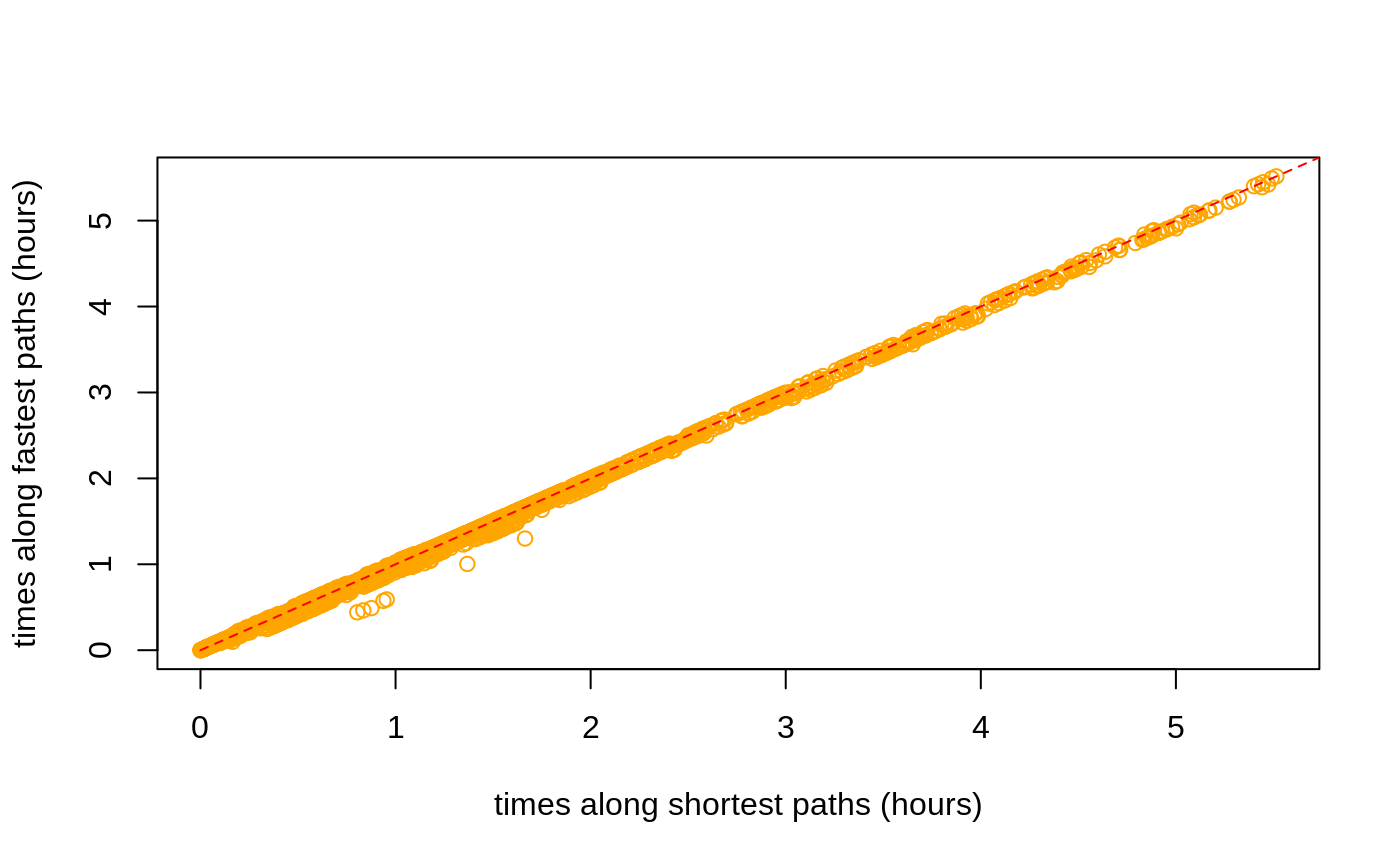
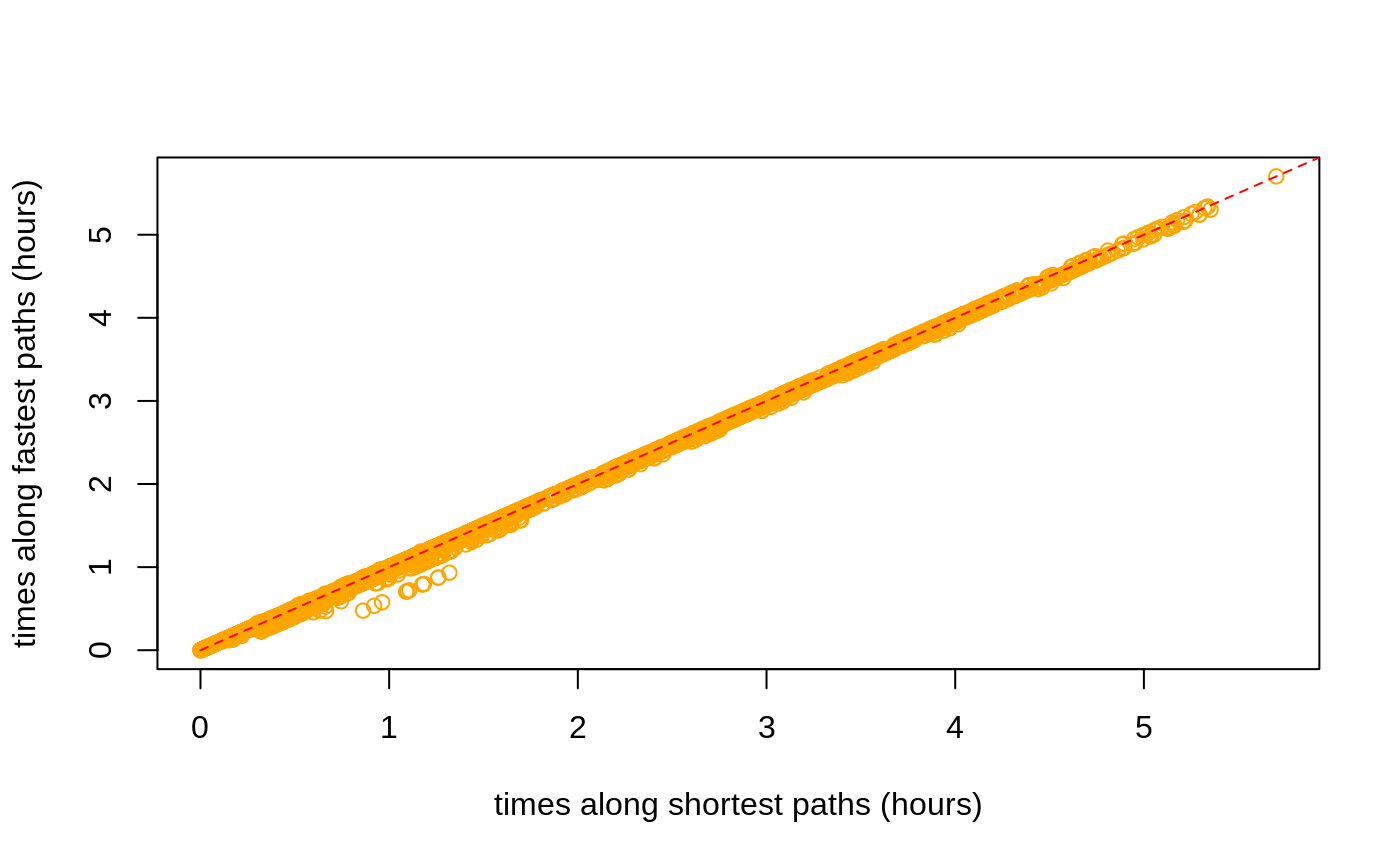
Built site for dodgr: 0.2.3@1b68def

diff --git a/articles/dodgr.html b/articles/dodgr.html
@@ -347,7 +347,7 @@ Figure 2: A <strong>dual</strong>-weighted, directed graph in which the weights 
 <p>The <code>dodgr</code> packages includes a function to select a random connected portion of graph including a specified number of vertices. This function is used in the <a href="https://atfutures.github.io/dodgr/reference/compare_heaps.html"><code><a href="../reference/compare_heaps.html">compare_heaps()</a></code></a> function described below, but is also useful for general statistical analyses of large graphs which may otherwise take too long to compute.</p>
 <div class="sourceCode" id="cb59"><pre class="sourceCode r"><code class="sourceCode r"><a class="sourceLine" id="cb59-1" data-line-number="1">graph_sub &lt;-<span class="st"> </span><span class="kw"><a href="../reference/dodgr_sample.html">dodgr_sample</a></span> (graph, <span class="dt">nverts =</span> <span class="dv">100</span>)</a>
 <a class="sourceLine" id="cb59-2" data-line-number="2"><span class="kw"><a href="https://rdrr.io/r/base/nrow.html">nrow</a></span> (graph_sub)</a></code></pre></div>
-<pre><code>## [1] 207</code></pre>
+<pre><code>## [1] 205</code></pre>
 <p>The random sample has around twice as many edges as vertices, in accordance with the statistics calculated above.</p>
 <div class="sourceCode" id="cb61"><pre class="sourceCode r"><code class="sourceCode r"><a class="sourceLine" id="cb61-1" data-line-number="1"><span class="kw"><a href="https://rdrr.io/r/base/nrow.html">nrow</a></span> (<span class="kw"><a href="../reference/dodgr_vertices.html">dodgr_vertices</a></span> (graph_sub))</a></code></pre></div>
 <pre><code>## [1] 100</code></pre>
@@ -426,30 +426,30 @@ Figure 2: A <strong>dual</strong>-weighted, directed graph in which the weights 
 <pre><code>## Loading required namespace: rbenchmark</code></pre>
 <pre><code>##                                                                                   test
 ## 6       d &lt;- dodgr_dists(graph_contracted, from = from_id, to = to_id, heap = "BHeap")
-## 10     d &lt;- dodgr_dists(graph_contracted, from = from_id, to = to_id, heap = "Heap23")
 ## 11        d &lt;- dodgr_dists(graph_contracted, from = from_id, to = to_id, heap = "set")
 ## 7       d &lt;- dodgr_dists(graph_contracted, from = from_id, to = to_id, heap = "FHeap")
+## 10     d &lt;- dodgr_dists(graph_contracted, from = from_id, to = to_id, heap = "Heap23")
 ## 8     d &lt;- dodgr_dists(graph_contracted, from = from_id, to = to_id, heap = "TriHeap")
 ## 9  d &lt;- dodgr_dists(graph_contracted, from = from_id, to = to_id, heap = "TriHeapExt")
 ## 1                  d &lt;- dodgr_dists(graph, from = from_id, to = to_id, heap = "BHeap")
-## 12                  d &lt;- igraph::distances(igr, v = from_id, to = to_id, mode = "out")
 ## 2                  d &lt;- dodgr_dists(graph, from = from_id, to = to_id, heap = "FHeap")
+## 12                  d &lt;- igraph::distances(igr, v = from_id, to = to_id, mode = "out")
 ## 5                 d &lt;- dodgr_dists(graph, from = from_id, to = to_id, heap = "Heap23")
 ## 3                d &lt;- dodgr_dists(graph, from = from_id, to = to_id, heap = "TriHeap")
 ## 4             d &lt;- dodgr_dists(graph, from = from_id, to = to_id, heap = "TriHeapExt")
 ##    replications elapsed relative user.self sys.self user.child sys.child
-## 6             1   0.003    1.000     0.004        0          0         0
-## 10            1   0.004    1.333     0.007        0          0         0
-## 11            1   0.004    1.333     0.004        0          0         0
-## 7             1   0.005    1.667     0.006        0          0         0
-## 8             1   0.005    1.667     0.007        0          0         0
-## 9             1   0.005    1.667     0.005        0          0         0
-## 1             1   0.014    4.667     0.020        0          0         0
-## 12            1   0.018    6.000     0.017        0          0         0
-## 2             1   0.019    6.333     0.032        0          0         0
-## 5             1   0.021    7.000     0.036        0          0         0
-## 3             1   0.022    7.333     0.038        0          0         0
-## 4             1   0.025    8.333     0.025        0          0         0</code></pre>
+## 6             1   0.004     1.00     0.006    0.000          0         0
+## 11            1   0.004     1.00     0.006    0.000          0         0
+## 7             1   0.005     1.25     0.008    0.000          0         0
+## 10            1   0.005     1.25     0.009    0.000          0         0
+## 8             1   0.007     1.75     0.009    0.001          0         0
+## 9             1   0.007     1.75     0.006    0.000          0         0
+## 1             1   0.014     3.50     0.021    0.000          0         0
+## 2             1   0.021     5.25     0.037    0.000          0         0
+## 12            1   0.021     5.25     0.021    0.000          0         0
+## 5             1   0.024     6.00     0.042    0.000          0         0
+## 3             1   0.025     6.25     0.044    0.000          0         0
+## 4             1   0.028     7.00     0.028    0.000          0         0</code></pre>
 <p>The key column of that <code>data.frame</code> is <code>relative</code>, which quantifies the relative performance of each test in relation to the best which is given a score of 1. <code>dodgr</code> using the default <code>heap = "BHeap"</code>, which is a binary heap priority queue, performs faster than <a href="https://igraph.org"><code>igraph</code></a> <span class="citation">(Csardi and Nepusz 2006)</span> for these graphs. Different kind of graphs will perform differently with different priority queue structures, and this function enables users to empirically discern the optimal heap for their kind of graph.</p>
 <p>Note, however, that this is not an entirely fair comparison, because <code>dodgr</code> calculates dual-weighted distances, whereas <a href="https://igraph.org"><code>igraph</code></a>—and indeed all other <strong>R</strong> packages—only directly calculate distances based on a single set of weights. Implementing dual-weighted routing in these cases requires explicitly re-tracing all paths and summing the second set of weights along each path. A time comparison in that case would be very strongly in favour of <code>dodgr</code>. Moreover, <code>dodgr</code> can convert graphs to contracted form through removing redundant vertices, as detailed in the following section. Doing so greatly improves performance with respect to <a href="https://igraph.org"><code>igraph</code></a>.</p>
 <p>For those wishing to do explicit comparisons themselves, the following code generates the <a href="https://igraph.org"><code>igraph</code></a> equivalent of <a href="https://atfutures.github.io/dodgr/reference/dodgr_distances.html"><code><a href="../reference/dodgr_distances.html">dodgr_distances()</a></code></a>, although of course for single-weighted graphs only:</p>
@@ -484,11 +484,11 @@ Figure 3: <strong>(A)</strong> Vertex#2 is redundant for routing calculations fr
 <a class="sourceLine" id="cb86-5" data-line-number="5">                       d2 &lt;-<span class="st"> </span><span class="kw"><a href="../reference/dodgr_dists.html">dodgr_dists</a></span> (graph, <span class="dt">from =</span> from, <span class="dt">to =</span> to),</a>
 <a class="sourceLine" id="cb86-6" data-line-number="6">                       <span class="dt">replications =</span> <span class="dv">2</span>)</a></code></pre></div>
 <pre><code>##                                             test replications elapsed
-## 2 d2 &lt;- dodgr_dists(graph, from = from, to = to)            2   0.046
-## 1   d2 &lt;- dodgr_dists(grc, from = from, to = to)            2   0.009
+## 2 d2 &lt;- dodgr_dists(graph, from = from, to = to)            2   0.042
+## 1   d2 &lt;- dodgr_dists(grc, from = from, to = to)            2   0.008
 ##   relative user.self sys.self user.child sys.child
-## 2    5.111     0.066        0          0         0
-## 1    1.000     0.012        0          0         0</code></pre>
+## 2     5.25     0.060        0          0         0
+## 1     1.00     0.011        0          0         0</code></pre>
 <p>And contracting the graph has a similar effect of speeding up pairwise routing between these 100 points. All routing algorithms scale non-linearly with size, and relative improvements in efficiency will be even greater for larger graphs.</p>
 <div id="routing-on-contracted-graphs" class="section level2">
 <h2 class="hasAnchor">
@@ -500,11 +500,11 @@ Figure 3: <strong>(A)</strong> Vertex#2 is redundant for routing calculations fr
 <pre><code>## [1] 672</code></pre>
 <div class="sourceCode" id="cb90"><pre class="sourceCode r"><code class="sourceCode r"><a class="sourceLine" id="cb90-1" data-line-number="1">verts &lt;-<span class="st"> </span><span class="kw"><a href="https://rdrr.io/r/base/sample.html">sample</a></span> (<span class="kw"><a href="../reference/dodgr_vertices.html">dodgr_vertices</a></span> (graph)<span class="op">$</span>id, <span class="dt">size =</span> <span class="dv">100</span>)</a>
 <a class="sourceLine" id="cb90-2" data-line-number="2"><span class="kw"><a href="https://rdrr.io/r/utils/head.html">head</a></span> (verts) <span class="co"># a character vector</span></a></code></pre></div>
-<pre><code>## [1] "571423442"  "1204772663" "3697937604" "3697942889" "3921523006"
-## [6] "1148814809"</code></pre>
+<pre><code>## [1] "1427594112" "2608081955" "977490073"  "1376768433" "1691496070"
+## [6] "3697937611"</code></pre>
 <div class="sourceCode" id="cb92"><pre class="sourceCode r"><code class="sourceCode r"><a class="sourceLine" id="cb92-1" data-line-number="1">grc &lt;-<span class="st"> </span><span class="kw"><a href="../reference/dodgr_contract_graph.html">dodgr_contract_graph</a></span> (graph, verts)</a>
 <a class="sourceLine" id="cb92-2" data-line-number="2"><span class="kw"><a href="https://rdrr.io/r/base/nrow.html">nrow</a></span> (grc)</a></code></pre></div>
-<pre><code>## [1] 860</code></pre>
+<pre><code>## [1] 858</code></pre>
 <p>Retaining the nominated vertices yields a graph with considerably more edges than the fully contracted graph excluding these vertices. The <a href="https://atfutures.github.io/dodgr/reference/dodgr_distances.html"><code><a href="../reference/dodgr_distances.html">dodgr_distances()</a></code></a> function can be applied to the latter graph to obtain accurate distances precisely routed between these points, yet using the speed advantages of graph contraction.</p>
 </div>
 </div>
@@ -545,42 +545,25 @@ Figure 3: <strong>(A)</strong> Vertex#2 is redundant for routing calculations fr
 <pre><code>## [1] 10</code></pre>
 <p>The result (<code>dp</code>) is a list of 10 items, each of which contains 5 vectors. An example is,</p>
 <div class="sourceCode" id="cb99"><pre class="sourceCode r"><code class="sourceCode r"><a class="sourceLine" id="cb99-1" data-line-number="1">dp [[<span class="dv">1</span>]] [[<span class="dv">1</span>]]</a></code></pre></div>
-<pre><code>##   [1] "3921523906" "1204772726" "1204772914" "1388483784" "1388482296"
-##   [6] "1388483001" "1204772748" "1204772807" "1204772888" "1388483168"
-##  [11] "1204772860" "1204772663" "1388482943" "1388482235" "977472736" 
-##  [16] "977472640"  "1388483756" "1388483120" "977472872"  "977472830" 
-##  [21] "977473072"  "977472969"  "1388483451" "977473047"  "6410121123"
-##  [26] "2627480728" "4552228189" "977472811"  "977472776"  "5351394447"
-##  [31] "977473010"  "977472907"  "977473143"  "1143452509" "5351394448"
-##  [36] "1143452137" "1143452244" "5351394641" "1143452423" "1143452067"
-##  [41] "5351394642" "1143452181" "1143452303" "1143452492" "1143452094"
-##  [46] "5351394644" "5351394643" "1143452226" "1143452348" "2718034071"
-##  [51] "1143452546" "1143452128" "1143452281" "1143452400" "1143452081"
-##  [56] "1143452160" "1143452325" "5351394645" "1143452459" "5351394646"
-##  [61] "2627430641" "5351394647" "1143452205" "5351394648" "1143452283"
-##  [66] "1143452404" "2627428625" "1143452165" "1143452327" "1143452463"
-##  [71] "1143452113" "1143452207" "1143452383" "1143452534" "1143452145"
-##  [76] "2627440420" "2627440424" "1143452232" "1143452410" "1143452262"
-##  [81] "1143452379" "1143452183" "1143452174" "1143452087" "1143452415"
-##  [86] "1143452293" "1143452135" "1143452063" "1143452360" "1143452234"
-##  [91] "1143452099" "1143452506" "3697940688" "3697940693" "571423793" 
-##  [96] "1143452264" "571423799"  "1143452116" "1143452536" "571423809" 
-## [101] "571423815"  "571423818"  "1143452332" "571423819"  "2627444770"
-## [106] "1143452467" "571423820"  "571423821"  "571423823"  "571423824" 
-## [111] "2627444771" "2627444772" "2627444773" "571423157"  "571423164" 
-## [116] "571423169"  "3921514718" "2627444775" "571423170"  "2627444774"
-## [121] "977490136"  "571423179"  "5366412458"</code></pre>
+<pre><code>##  [1] "3818705557" "3818704556" "3818704555" "3818704554" "3818704553"
+##  [6] "1715830667" "977472658"  "5351394459" "1143452537" "2588155736"
+## [11] "1143452117" "980469030"  "2195424912" "1143452269" "1143452386"
+## [16] "1143452076" "1143452151" "977473079"  "977472845"  "2627422270"
+## [21] "2195424913" "1143452198" "1143452373" "977472612"  "1143452526"
+## [26] "977472712"  "2608076560" "1143452257" "1143452142" "1143452434"
+## [31] "3697942891" "2627428639" "2627428626" "2627428649" "2627428650"
+## [36] "2627428648"</code></pre>
 <p>For spatial graphs, the coordinates of these paths can be obtained by extracting the vertices with <code><a href="../reference/dodgr_vertices.html">dodgr_vertices()</a></code> and matching the vertex IDs:</p>
 <div class="sourceCode" id="cb101"><pre class="sourceCode r"><code class="sourceCode r"><a class="sourceLine" id="cb101-1" data-line-number="1">verts &lt;-<span class="st"> </span><span class="kw"><a href="../reference/dodgr_vertices.html">dodgr_vertices</a></span> (graph)</a>
 <a class="sourceLine" id="cb101-2" data-line-number="2">path1 &lt;-<span class="st"> </span>verts [<span class="kw"><a href="https://rdrr.io/r/base/match.html">match</a></span> (dp [[<span class="dv">1</span>]] [[<span class="dv">1</span>]], verts<span class="op">$</span>id), ]</a>
 <a class="sourceLine" id="cb101-3" data-line-number="3"><span class="kw"><a href="https://rdrr.io/r/utils/head.html">head</a></span> (path1)</a></code></pre></div>
 <pre><code>##              id        x        y component    n
-## 5140 3921523906 76.44344 15.34444         2 2539
-## 1534 1204772726 76.44340 15.34466         2  779
-## 1536 1204772914 76.44401 15.34403         2  780
-## 1538 1388483784 76.44425 15.34391         2  781
-## 1540 1388482296 76.44451 15.34383         2  782
-## 1542 1388483001 76.44470 15.34382         2  783</code></pre>
+## 4878 3818705557 76.45315 15.34103         2 2420
+## 4876 3818704556 76.45322 15.34104         2 2419
+## 4874 3818704555 76.45329 15.34088         2 2418
+## 4872 3818704554 76.45353 15.34091         2 2417
+## 4870 3818704553 76.45373 15.34105         2 2416
+## 1792 1715830667 76.45379 15.34111         2  908</code></pre>
 <p>Paths calculated on contracted graphs will of course have fewer vertices than those calculated on full graphs.</p>
 </div>
 <div id="aggregated-flows" class="section level1">
@@ -614,17 +597,17 @@ Figure 3: <strong>(A)</strong> Vertex#2 is redundant for routing calculations fr
 ## 4 15.34173   8.888670    9.87630 unclassified 28565950         1  2.133281
 ## 5 15.34179   9.326536   10.36282 unclassified 28565950         1  2.238369
 ## 6 15.34174   9.326536   10.36282 unclassified 28565950         1  2.238369
-##   time_weighted     flow
-## 1     35.317912 23.28219
-## 2     35.317912  0.00000
-## 3      2.370312 23.28219
-## 4      2.370312  0.00000
-## 5      2.487076 23.28219
-## 6      2.487076  0.00000</code></pre>
+##   time_weighted flow
+## 1     35.317912    0
+## 2     35.317912    0
+## 3      2.370312    0
+## 4      2.370312    0
+## 5      2.487076    0
+## 6      2.487076    0</code></pre>
 <p>Most flows are zero because they have only been calculated between very few points in the graph.</p>
 <div class="sourceCode" id="cb106"><pre class="sourceCode r"><code class="sourceCode r"><a class="sourceLine" id="cb106-1" data-line-number="1"><span class="kw"><a href="https://rdrr.io/r/base/summary.html">summary</a></span> (graph_f<span class="op">$</span>flow)</a></code></pre></div>
 <pre><code>##    Min. 1st Qu.  Median    Mean 3rd Qu.    Max. 
-##   0.000   0.000   0.000   3.893   0.000  46.718</code></pre>
+##  0.0000  0.0000  0.0000  5.4879  0.5902 61.9130</code></pre>
 </div>
 <div id="flow-dispersal" class="section level2">
 <h2 class="hasAnchor">
@@ -634,7 +617,7 @@ Figure 3: <strong>(A)</strong> Vertex#2 is redundant for routing calculations fr
 <a class="sourceLine" id="cb108-2" data-line-number="2">graph_f &lt;-<span class="st"> </span><span class="kw"><a href="../reference/dodgr_flows_disperse.html">dodgr_flows_disperse</a></span> (graph, <span class="dt">from =</span> from, <span class="dt">dens =</span> dens)</a>
 <a class="sourceLine" id="cb108-3" data-line-number="3"><span class="kw"><a href="https://rdrr.io/r/base/summary.html">summary</a></span> (graph_f<span class="op">$</span>flow)</a></code></pre></div>
 <pre><code>##    Min. 1st Qu.  Median    Mean 3rd Qu.    Max. 
-## 0.00000 0.00000 0.01318 0.10805 0.13711 1.06508</code></pre>
+## 0.00000 0.00000 0.02246 0.15119 0.21174 1.27591</code></pre>
 </div>
 <div id="merging-directed-flows" class="section level2">
 <h2 class="hasAnchor">
@@ -644,7 +627,7 @@ Figure 3: <strong>(A)</strong> Vertex#2 is redundant for routing calculations fr
 <p>Resultant graphs produced by <a href="https://atfutures.github.io/dodgr/reference/merge_directed_flows.html"><code><a href="../reference/merge_directed_flows.html">merge_directed_flows()</a></code></a> only include those edges having non-zero flows, and so:</p>
 <div class="sourceCode" id="cb111"><pre class="sourceCode r"><code class="sourceCode r"><a class="sourceLine" id="cb111-1" data-line-number="1"><span class="kw"><a href="https://rdrr.io/r/base/nrow.html">nrow</a></span> (graph_f); <span class="kw"><a href="https://rdrr.io/r/base/nrow.html">nrow</a></span> (graph_undir) <span class="co"># the latter is much smaller</span></a></code></pre></div>
 <pre><code>## [1] 5973</code></pre>
-<pre><code>## [1] 2798</code></pre>
+<pre><code>## [1] 2767</code></pre>
 <p>The resultant graph can readily be merged with the original graph to regain the original data on vertex coordinates through</p>
 <div class="sourceCode" id="cb114"><pre class="sourceCode r"><code class="sourceCode r"><a class="sourceLine" id="cb114-1" data-line-number="1">graph &lt;-<span class="st"> </span>graph [graph_undir<span class="op">$</span>edge_id, ]</a>
 <a class="sourceLine" id="cb114-2" data-line-number="2">graph<span class="op">$</span>flow &lt;-<span class="st"> </span>graph_undir<span class="op">$</span>flow</a></code></pre></div>

diff --git a/articles/times.html b/articles/times.html
@@ -230,11 +230,11 @@ Figure 1: Graph modification to account for turn penalties, which introduces the
 <p><img src="times_files/figure-html/shortest-vs-fastest-1.png" width="700"></p>
 <p>The average distance between the two (in metres) is:</p>
 <div class="sourceCode" id="cb9"><pre class="sourceCode r"><code class="sourceCode r"><a class="sourceLine" id="cb9-1" data-line-number="1"><span class="kw"><a href="https://rdrr.io/r/base/mean.html">mean</a></span> (<span class="kw"><a href="https://rdrr.io/r/base/MathFun.html">abs</a></span> (d_time <span class="op">-</span><span class="st"> </span>d_dist), <span class="dt">na.rm =</span> <span class="ot">TRUE</span>)</a></code></pre></div>
-<pre><code>## [1] 52.57232</code></pre>
+<pre><code>## [1] 49.90334</code></pre>
 <p>The plot reveals that shortest distances are indeed somewhat shorter than distances along fastest paths, but also that some fastest paths are actually shorter than shortest paths:</p>
 <div class="sourceCode" id="cb11"><pre class="sourceCode r"><code class="sourceCode r"><a class="sourceLine" id="cb11-1" data-line-number="1">index &lt;-<span class="st"> </span><span class="kw"><a href="https://rdrr.io/r/base/which.html">which</a></span> (<span class="op">!</span><span class="kw"><a href="https://rdrr.io/r/base/NA.html">is.na</a></span> (d_time) <span class="op">&amp;</span><span class="st"> </span><span class="op">!</span><span class="kw"><a href="https://rdrr.io/r/base/NA.html">is.na</a></span> (d_dist))</a>
 <a class="sourceLine" id="cb11-2" data-line-number="2"><span class="kw"><a href="https://rdrr.io/r/base/length.html">length</a></span> (<span class="kw"><a href="https://rdrr.io/r/base/which.html">which</a></span> (d_time [index] <span class="op">&lt;</span><span class="st"> </span>d_dist [index])) <span class="op">/</span><span class="st"> </span><span class="kw"><a href="https://rdrr.io/r/base/length.html">length</a></span> (index)</a></code></pre></div>
-<pre><code>## [1] 0.01298701</code></pre>
+<pre><code>## [1] 0.01610594</code></pre>
 <p>While <code>dodgr</code> and indeed all routing engines attempt to maximally reconcile differences between fastest and shortest routes, there nevertheless remain important discrepancies. Foremost among these, and the primary reason why some fastest routes may in fact be shorter than shortest routes, is that fastest routes allocate preferences for different kinds of way based both on the <code>value</code> column in the <code>weighting_profiles$weighting_profiles</code> table illustrated above, and on the actual maximum speed of a given edge, which itself may be a combination of maximum speeds as specified in OSM itself, maximum speeds from the <code>weighting_profiles$weighting_profiles</code> table, or values specific to a given surface. The result is that some unique combination of maximum speeds along a network may lead to <em>fastest</em> routes being preferentially directed along a path that is actually shorter than the direct shortest path which is calculated independent of maximum speed values.</p>
 <p>Such discrepancies are important in understanding differences in routes <em>times</em> calculated along shortest versus fastest paths. These times can be calculated (in seconds) with the <a href="https://atfutures.github.io/dodgr/reference/dodgr_times.html"><code><a href="../reference/dodgr_times.html">dodgr_times()</a></code></a> function:</p>
 <div class="sourceCode" id="cb13"><pre class="sourceCode r"><code class="sourceCode r"><a class="sourceLine" id="cb13-1" data-line-number="1">t_dist &lt;-<span class="st"> </span><span class="kw"><a href="../reference/dodgr_times.html">dodgr_times</a></span> (graph, <span class="dt">from =</span> from, <span class="dt">to =</span> to, <span class="dt">shortest =</span> <span class="ot">TRUE</span>) <span class="co"># default</span></a>
@@ -245,11 +245,11 @@ Figure 1: Graph modification to account for turn penalties, which introduces the
 <a class="sourceLine" id="cb13-6" data-line-number="6"><span class="kw"><a href="https://rdrr.io/r/graphics/lines.html">lines</a></span> (<span class="dv">0</span><span class="op">:</span><span class="dv">100</span>, <span class="dv">0</span><span class="op">:</span><span class="dv">100</span>, <span class="dt">col =</span> <span class="st">"red"</span>, <span class="dt">lty =</span> <span class="dv">2</span>)</a></code></pre></div>
 <p><img src="times_files/figure-html/shortest-vs-fastest-times-1.png" width="700"></p>
 <div class="sourceCode" id="cb14"><pre class="sourceCode r"><code class="sourceCode r"><a class="sourceLine" id="cb14-1" data-line-number="1"><span class="kw"><a href="https://rdrr.io/r/base/mean.html">mean</a></span> (<span class="kw"><a href="https://rdrr.io/r/base/MathFun.html">abs</a></span> (t_time <span class="op">-</span><span class="st"> </span>t_dist), <span class="dt">na.rm =</span> <span class="ot">TRUE</span>)</a></code></pre></div>
-<pre><code>## [1] 49.57471</code></pre>
+<pre><code>## [1] 48.79665</code></pre>
 <p>As above, times along fastest paths are generally less than times along shortest paths, although there are again a few exceptions:</p>
 <div class="sourceCode" id="cb16"><pre class="sourceCode r"><code class="sourceCode r"><a class="sourceLine" id="cb16-1" data-line-number="1">index &lt;-<span class="st"> </span><span class="kw"><a href="https://rdrr.io/r/base/which.html">which</a></span> (<span class="op">!</span><span class="kw"><a href="https://rdrr.io/r/base/NA.html">is.na</a></span> (t_time) <span class="op">&amp;</span><span class="st"> </span><span class="op">!</span><span class="kw"><a href="https://rdrr.io/r/base/NA.html">is.na</a></span> (t_dist))</a>
 <a class="sourceLine" id="cb16-2" data-line-number="2"><span class="kw"><a href="https://rdrr.io/r/base/length.html">length</a></span> (<span class="kw"><a href="https://rdrr.io/r/base/which.html">which</a></span> (t_dist [index] <span class="op">&lt;</span><span class="st"> </span>t_time [index])) <span class="op">/</span><span class="st"> </span><span class="kw"><a href="https://rdrr.io/r/base/length.html">length</a></span> (index)</a></code></pre></div>
-<pre><code>## [1] 0.02727273</code></pre>
+<pre><code>## [1] 0.01377953</code></pre>
 <p>These results demonstrate how the combination of the <a href="https://atfutures.github.io/dodgr/reference/dodgr_distances.html"><code><a href="../reference/dodgr_distances.html">dodgr_distances()</a></code></a> and <a href="https://atfutures.github.io/dodgr/reference/dodgr_times.html"><code><a href="../reference/dodgr_times.html">dodgr_times()</a></code></a> functions enable calculation of both distances and times along both shortest and fastest paths.</p>
 <div id="time-based-paths-and-flow-aggregation" class="section level2">
 <h2 class="hasAnchor">

diff --git a/reference/compare_heaps.html b/reference/compare_heaps.html
@@ -157,30 +157,30 @@ fair comparisons, run only once or re-start the current R session.</p>
     <pre class="examples"><div class='input'><span class='no'>graph</span> <span class='kw'>&lt;-</span> <span class='fu'><a href='weight_streetnet.html'>weight_streetnet</a></span> (<span class='no'>hampi</span>)
 <span class='fu'>compare_heaps</span> (<span class='no'>graph</span>, <span class='kw'>nverts</span> <span class='kw'>=</span> <span class='fl'>1000</span>, <span class='kw'>replications</span> <span class='kw'>=</span> <span class='fl'>1</span>)</div><div class='output co'>#&gt; <span class='message'>Loading required namespace: rbenchmark</span></div><div class='output co'>#&gt;                                                                                   test
 #&gt; 6       d &lt;- dodgr_dists(graph_contracted, from = from_id, to = to_id, heap = "BHeap")
+#&gt; 8     d &lt;- dodgr_dists(graph_contracted, from = from_id, to = to_id, heap = "TriHeap")
+#&gt; 10     d &lt;- dodgr_dists(graph_contracted, from = from_id, to = to_id, heap = "Heap23")
 #&gt; 11        d &lt;- dodgr_dists(graph_contracted, from = from_id, to = to_id, heap = "set")
 #&gt; 7       d &lt;- dodgr_dists(graph_contracted, from = from_id, to = to_id, heap = "FHeap")
-#&gt; 8     d &lt;- dodgr_dists(graph_contracted, from = from_id, to = to_id, heap = "TriHeap")
 #&gt; 9  d &lt;- dodgr_dists(graph_contracted, from = from_id, to = to_id, heap = "TriHeapExt")
-#&gt; 10     d &lt;- dodgr_dists(graph_contracted, from = from_id, to = to_id, heap = "Heap23")
 #&gt; 1                  d &lt;- dodgr_dists(graph, from = from_id, to = to_id, heap = "BHeap")
 #&gt; 12                  d &lt;- igraph::distances(igr, v = from_id, to = to_id, mode = "out")
 #&gt; 2                  d &lt;- dodgr_dists(graph, from = from_id, to = to_id, heap = "FHeap")
-#&gt; 5                 d &lt;- dodgr_dists(graph, from = from_id, to = to_id, heap = "Heap23")
 #&gt; 3                d &lt;- dodgr_dists(graph, from = from_id, to = to_id, heap = "TriHeap")
+#&gt; 5                 d &lt;- dodgr_dists(graph, from = from_id, to = to_id, heap = "Heap23")
 #&gt; 4             d &lt;- dodgr_dists(graph, from = from_id, to = to_id, heap = "TriHeapExt")
 #&gt;    replications elapsed relative user.self sys.self user.child sys.child
-#&gt; 6             1   0.004     1.00     0.006    0.000          0         0
-#&gt; 11            1   0.004     1.00     0.006    0.000          0         0
-#&gt; 7             1   0.006     1.50     0.008    0.000          0         0
-#&gt; 8             1   0.006     1.50     0.008    0.000          0         0
-#&gt; 9             1   0.006     1.50     0.006    0.000          0         0
-#&gt; 10            1   0.006     1.50     0.008    0.000          0         0
-#&gt; 1             1   0.015     3.75     0.022    0.001          0         0
-#&gt; 12            1   0.019     4.75     0.018    0.000          0         0
-#&gt; 2             1   0.023     5.75     0.037    0.000          0         0
-#&gt; 5             1   0.023     5.75     0.040    0.000          0         0
-#&gt; 3             1   0.024     6.00     0.041    0.000          0         0
-#&gt; 4             1   0.026     6.50     0.025    0.000          0         0</div></pre>
+#&gt; 6             1   0.004     1.00     0.005        0          0         0
+#&gt; 8             1   0.004     1.00     0.007        0          0         0
+#&gt; 10            1   0.004     1.00     0.006        0          0         0
+#&gt; 11            1   0.004     1.00     0.005        0          0         0
+#&gt; 7             1   0.005     1.25     0.006        0          0         0
+#&gt; 9             1   0.005     1.25     0.005        0          0         0
+#&gt; 1             1   0.011     2.75     0.017        0          0         0
+#&gt; 12            1   0.016     4.00     0.016        0          0         0
+#&gt; 2             1   0.017     4.25     0.028        0          0         0
+#&gt; 3             1   0.019     4.75     0.032        0          0         0
+#&gt; 5             1   0.019     4.75     0.031        0          0         0
+#&gt; 4             1   0.021     5.25     0.021        0          0         0</div></pre>
   </div>
   <div class="col-md-3 hidden-xs hidden-sm" id="sidebar">
     <h2>Contents</h2>

diff --git a/index.html b/index.html
@@ -78,7 +78,8 @@
 <div class="page-header"><h1 class="hasAnchor">
 <a href="#dodgr-distances-on-directed-graphs-in-r" class="anchor"></a>dodgr: Distances on Directed Graphs in R</h1></div>
 <p><strong>NOTE</strong> <code>dodgr</code> has temporarily been archived on CRAN (as of 1 Oct 2019), and so is not currently available for installation via <code><a href="https://rdrr.io/r/utils/install.packages.html">install.packages()</a></code>. We are urgently working on a solution, and expect the package to reappear on CRAN any day. We apologise for any inconvenience. In the meantime, the package can still be installed via <code><a href="https://rdrr.io/pkg/remotes/man/install_github.html">remotes::install_github()</a></code>, as described below.</p>
-<p>R package for efficient calculation of many-to-many pairwise distances on dual-weighted directed graphs, for aggregation of flows throughout networks, and for highly realistic routing through street networks (time-based routing considering incline, turn-angles, surface quality, everything).</p>
+<hr>
+<p><code>dodgr</code> is an R package for efficient calculation of many-to-many pairwise distances on dual-weighted directed graphs, for aggregation of flows throughout networks, and for highly realistic routing through street networks (time-based routing considering incline, turn-angles, surface quality, everything).</p>
 <div id="whats-so-special" class="section level2">
 <h2 class="hasAnchor">
 <a href="#whats-so-special" class="anchor"></a>What’s so special?</h2>
@@ -563,7 +564,7 @@
 <td align="right">1</td>
 <td align="right">95.358362</td>
 <td align="right">119.197952</td>
-<td align="right">0.00000</td>
+<td align="right">7.716353</td>
 </tr>
 <tr class="even">
 <td align="right">1</td>
@@ -581,7 +582,7 @@
 <td align="right">1</td>
 <td align="right">95.358362</td>
 <td align="right">119.197952</td>
-<td align="right">23.94885</td>
+<td align="right">0.000000</td>
 </tr>
 <tr class="odd">
 <td align="right">1</td>
@@ -599,7 +600,7 @@
 <td align="right">1</td>
 <td align="right">6.399843</td>
 <td align="right">7.999803</td>
-<td align="right">0.00000</td>
+<td align="right">7.716353</td>
 </tr>
 <tr class="even">
 <td align="right">1</td>
@@ -617,7 +618,7 @@
 <td align="right">1</td>
 <td align="right">6.399843</td>
 <td align="right">7.999803</td>
-<td align="right">23.94885</td>
+<td align="right">0.000000</td>
 </tr>
 <tr class="odd">
 <td align="right">1</td>
@@ -635,7 +636,7 @@
 <td align="right">1</td>
 <td align="right">6.715106</td>
 <td align="right">8.393882</td>
-<td align="right">0.00000</td>
+<td align="right">7.716353</td>
 </tr>
 <tr class="even">
 <td align="right">1</td>
@@ -653,7 +654,7 @@
 <td align="right">1</td>
 <td align="right">6.715106</td>
 <td align="right">8.393882</td>
-<td align="right">23.94885</td>
+<td align="right">0.000000</td>
 </tr>
 </tbody>
 </table>

diff --git a/reference/dodgr_sample.html b/reference/dodgr_sample.html
@@ -143,7 +143,7 @@ the requested <code>nverts</code>.</p>
     <h2 class="hasAnchor" id="examples"><a class="anchor" href="#examples"></a>Examples</h2>
     <pre class="examples"><div class='input'><span class='no'>graph</span> <span class='kw'>&lt;-</span> <span class='fu'><a href='weight_streetnet.html'>weight_streetnet</a></span> (<span class='no'>hampi</span>)
 <span class='fu'><a href='https://rdrr.io/r/base/nrow.html'>nrow</a></span> (<span class='no'>graph</span>) <span class='co'># 5,742</span></div><div class='output co'>#&gt; [1] 5973</div><div class='input'><span class='no'>graph</span> <span class='kw'>&lt;-</span> <span class='fu'>dodgr_sample</span> (<span class='no'>graph</span>, <span class='kw'>nverts</span> <span class='kw'>=</span> <span class='fl'>200</span>)
-<span class='fu'><a href='https://rdrr.io/r/base/nrow.html'>nrow</a></span> (<span class='no'>graph</span>) <span class='co'># generally around 400 edges</span></div><div class='output co'>#&gt; [1] 417</div><div class='input'><span class='fu'><a href='https://rdrr.io/r/base/nrow.html'>nrow</a></span> (<span class='fu'><a href='dodgr_vertices.html'>dodgr_vertices</a></span> (<span class='no'>graph</span>)) <span class='co'># 200</span></div><div class='output co'>#&gt; [1] 200</div></pre>
+<span class='fu'><a href='https://rdrr.io/r/base/nrow.html'>nrow</a></span> (<span class='no'>graph</span>) <span class='co'># generally around 400 edges</span></div><div class='output co'>#&gt; [1] 396</div><div class='input'><span class='fu'><a href='https://rdrr.io/r/base/nrow.html'>nrow</a></span> (<span class='fu'><a href='dodgr_vertices.html'>dodgr_vertices</a></span> (<span class='no'>graph</span>)) <span class='co'># 200</span></div><div class='output co'>#&gt; [1] 200</div></pre>
   </div>
   <div class="col-md-3 hidden-xs hidden-sm" id="sidebar">
     <h2>Contents</h2>
